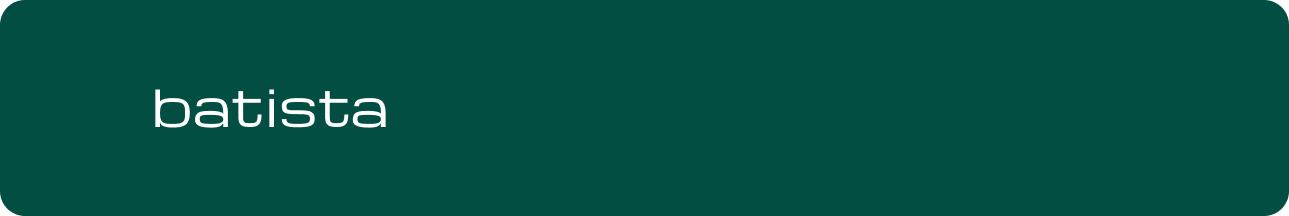
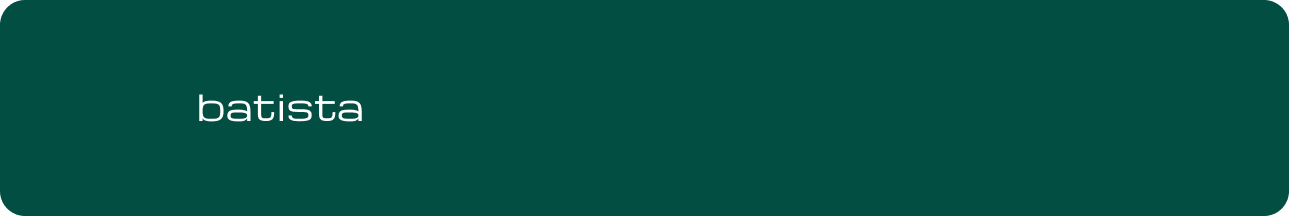
Página batista

Changed region(s): [[0.0931, 0.4167, 0.3103, 0.6111]]

diff --git a/src/pages/batista.html b/src/pages/batista.html
@@ -1,0 +1,109 @@
+<!DOCTYPE html>
+<html lang="pt-BR">
+
+<head>
+    <meta charset="UTF-8">
+    <meta http-equiv="X-UA-Compatible" content="IE=edge">
+    <meta name="viewport" content="width=device-width, initial-scale=1.0">
+    <title>Batista</title>
+    <link rel="stylesheet" href="../../css/index.css">
+</head>
+<header>
+    <div class="header-division">
+        <a href="../../index.html#home" id="logo">Portfólio</a>
+    </div>
+    <div class="header-division">
+        <ul class="flex">
+            <li> <a href="../../index.html#home">Home</a></li>
+            <li> <a href="../../index.html#projects">Projetos</a></li>
+            <li> <a href="../../index.html#courses">Cursos</a></li>
+            <li> <a href="../../index.html#perfil">Perfil</a></li>
+        </ul>
+    </div>
+    <div class="header-division"></div>
+</header>
+
+<body>
+    <section class="container cont-decorated project-container" id="batista">
+        <div class="project-body">
+            <div class="project-body-banner"></div>
+            <div class="project-body-text">
+                <div>
+                    <h2>Sobre</h2>
+                    <p>
+                        Este projeto tem como objetivo exercitar meus conhecimentos em HTML, CSS, JavaScript, MongoDB e
+                        NodeJS, por meio da implementação de um e-commerce de artigos esportivos intitulado "Batista".
+                    </p>
+                    <p>
+                        Para construir esse projeto, será adotada a arquitetura MVC e aplicadas boas práticas de
+                        programação, incluindo testes e validações, garantindo assim a robustez do sistema baseado em
+                        Node.
+                    </p>
+                </div>
+
+                <img src="../imgs/project-imgs/batista/astronauta.png" alt="Imagem astronauta">
+            </div>
+
+        </div>
+
+        </div>
+    </section>
+    <section class="cont-black-auto container project-container">
+        <div class="project-body">
+            <div class="project-body-credits">
+                <div class="project-body-credits-bg">
+                    <div class="project-body-credits-bg-personal_pic"></div>
+                </div>
+                <div class="project-body-credits-text">
+                    <h3>Frederico Nogueira</h3>
+                    <span>Desenvolvedor</span>
+                </div>
+                <ul>
+                    <a target="_blank" href="https://github.com/FredNogueiraDev">
+                        <li>
+                            <span class="credits-icon"><img src="../icons/git.svg" alt="ícone Github"></span>
+                            <span class="credits-title">Github</span>
+                        </li>
+                    </a>
+                    <a target="_blank" href="mailto:fredericonogueira01@outlook.com">
+                        <li>
+                            <span class="credits-icon credits-icon-email"><img src="../icons/email.svg"
+                                    alt="ícone Github"></span>
+                            <span class="credits-title">E-mail</span>
+                        </li>
+                    </a>
+                    <a target="_blank" href="https://www.linkedin.com/in/frederico-nogueira-654924238/">
+                        <li>
+                            <span class="credits-icon"><img src="../icons/linkedin.svg" alt="ícone Github"></span>
+                            <span class="credits-title">LinkedIn</span>
+                        </li>
+                    </a>
+                    <a target="_blank" href="tel:+5537991368237">
+                        <li>
+                            <span class="credits-icon"><img src="../icons/telefone.svg" alt="ícone Github"></span>
+                            <span class="credits-title">Celular</span>
+                        </li>
+                    </a>
+                </ul>
+            </div>
+        </div>
+    </section>
+</body>
+
+<section class="cont-decorated">
+    <footer>
+        <ul class="flex">
+            <ul class="flex">
+                <li> <a href="../../index.html#home">Home</a></li>
+                <li> <a href="../../index.html#projects">Projetos</a></li>
+                <li> <a href="../../index.html#courses">Cursos</a></li>
+                <li> <a href="../../index.html#perfil">Perfil</a></li>
+            </ul>
+        </ul>
+        <hr>
+        </hr>
+        <p>Frederico Nogueira | <b>Meu portfólio pessoal</b> &copy; 2023</p>
+    </footer>
+</section>
+
+</html>

diff --git a/src/pages/thoughts.html b/src/pages/thoughts.html
@@ -30,7 +30,7 @@
             <div class="project-body-text-2">
                 <div>
                     <h2>Sobre o Thoughts</h2>
-                    <p>Projeto desenvolvido para exercitar meus conhecimentos em HTML, CSS, JavaScript, MySQL e NodeJS, para isso, foi implementado uma rede social denominada de Thoughts, a mesma se baseia no que os usuários estão pensando, estes pensamentos são chamados de thought e ficam expostos na página “Home” para que todos possam ver.</p>
+                    <p>Projeto desenvolvido para exercitar meus conhecimentos em HTML, CSS, JavaScript, MySQL e NodeJS. Para isso, foi implementada uma rede social denominada Thoughts, que se baseia no que os usuários estão pensando. Esses pensamentos são chamados de "thoughts" e ficam expostos na página "Home" para que todos possam ver.</p>
                 </div>
                 <div>
                     <h2>Como utilizar o projeto</h2>

diff --git a/src/pages/calculadora.html b/src/pages/calculadora.html
@@ -30,7 +30,7 @@
             <div class="project-body-text">
                 <div>
                     <h2>Sobre</h2>
-                    <p>Desenvolvi este projeto para exercitar meus conhecimentos em HTML, CSS, JavaScript e React. Implementei uma calculadora online com o auxílio do professor Leonardo Leitão, no curso livre "Web Moderno completo com JavaScript".</p>
+                    <p>Desenvolvi este projeto para exercitar meus conhecimentos em HTML, CSS, JavaScript e React. Implementei uma calculadora online com o auxílio do professor Leonardo Leitão, no curso livre "Web Moderno Completo com JavaScript".</p>
                     
                 </div>
 

diff --git a/css/pages.css b/css/pages.css
@@ -327,3 +327,9 @@ textarea {
   background-position: center center;
   background-repeat: no-repeat;
 }
+
+#batista .project-body .project-body-banner {
+  background: url("../src/imgs/banners/batista.png");
+  background-position: center center;
+  background-repeat: no-repeat;
+}
